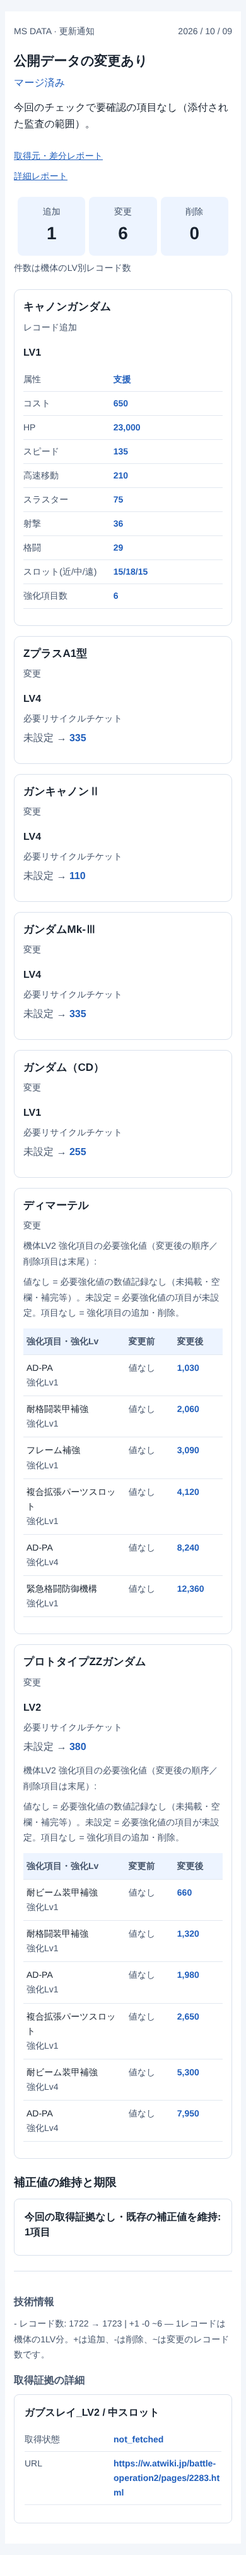
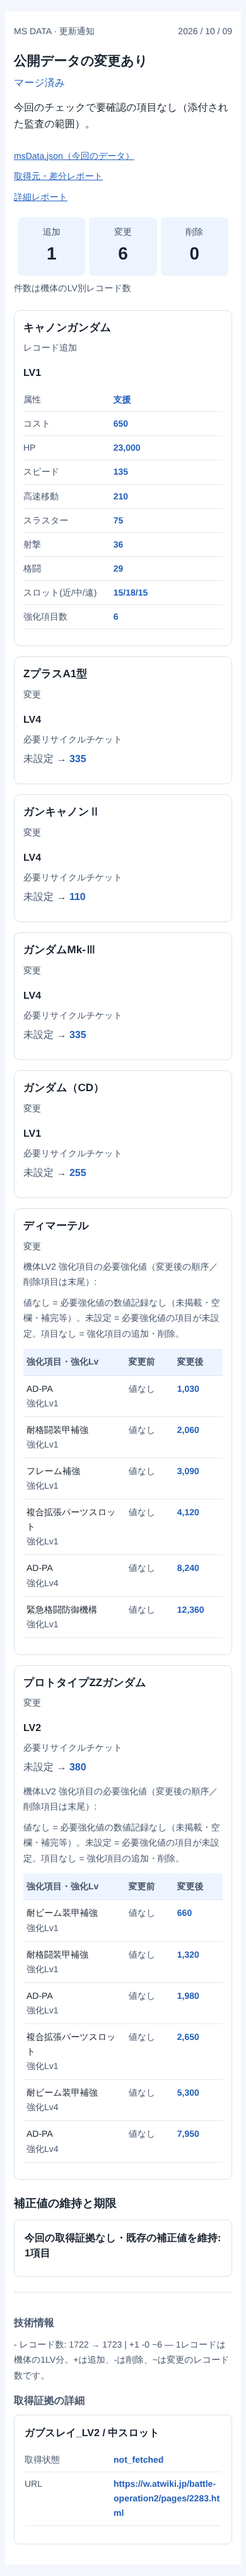
feat: 更新反映メールの msData.json 添付をやめ Release アセットへのリンクにする（#365）
- post merge notify の Release 公開で msData.json もアセットに載せ、そのダウンロード URL を出力する
- build_update_mail_body に --msdata-url を追加し、本文冒頭に「msData.json（今回のデータ）」リンクを出す
- send_gmail の --attach をやめる。Release に msData.json がなければステップを失敗させる
- gh スタブテスト・契約テスト・表示例を更新

Claude-Session: https://claude.ai/code/session_01Gn3P4Jr7SEk7vpEKWeojKK

diff --git a/docs/notification_examples/actual-20261009.html b/docs/notification_examples/actual-20261009.html
@@ -25,7 +25,7 @@
 <h1 style="font-size:24px;line-height:1.4;font-weight:600;margin:20px 0 8px">公開データの変更あり</h1>
 <p class="result" style="color:#215fbc;font-size:16px;margin:0 0 12px">マージ済み</p>
 <p class="action" style="font-size:16px;margin:0 0 24px">今回のチェックで要確認の項目なし（添付された監査の範囲）。</p>
-<p class="note" style="font-size:14px;line-height:1.75;color:#46556b;margin:8px 0;overflow-wrap:anywhere;word-wrap:break-word"><a href="https://github.com/murakotaro4/MS_data/releases/tag/raw-snapshot-20261009-run-37806098586" style="color:#215fbc;text-decoration:underline;overflow-wrap:anywhere;word-wrap:break-word">取得元・差分レポート</a></p><p class="note" style="font-size:14px;line-height:1.75;color:#46556b;margin:8px 0;overflow-wrap:anywhere;word-wrap:break-word"><a href="https://github.com/murakotaro4/MS_data/actions/runs/37806098586" style="color:#215fbc;text-decoration:underline;overflow-wrap:anywhere;word-wrap:break-word">詳細レポート</a></p>
+<p class="note" style="font-size:14px;line-height:1.75;color:#46556b;margin:8px 0;overflow-wrap:anywhere;word-wrap:break-word"><a href="https://github.com/murakotaro4/MS_data/releases/download/raw-snapshot-20261009-run-37806098586/msData.json" style="color:#215fbc;text-decoration:underline;overflow-wrap:anywhere;word-wrap:break-word">msData.json（今回のデータ）</a></p><p class="note" style="font-size:14px;line-height:1.75;color:#46556b;margin:8px 0;overflow-wrap:anywhere;word-wrap:break-word"><a href="https://github.com/murakotaro4/MS_data/releases/tag/raw-snapshot-20261009-run-37806098586" style="color:#215fbc;text-decoration:underline;overflow-wrap:anywhere;word-wrap:break-word">取得元・差分レポート</a></p><p class="note" style="font-size:14px;line-height:1.75;color:#46556b;margin:8px 0;overflow-wrap:anywhere;word-wrap:break-word"><a href="https://github.com/murakotaro4/MS_data/actions/runs/37806098586" style="color:#215fbc;text-decoration:underline;overflow-wrap:anywhere;word-wrap:break-word">詳細レポート</a></p>
 <table class="stats" role="presentation" style="width:100%;table-layout:fixed;border-spacing:6px 0;margin:20px 0 0"><tr><td style="width:33.33%;padding:12px 4px;background:#edf4ff;text-align:center;border-radius:8px"><div class="stat-label" style="color:#46556b;font-size:14px">追加</div><div class="stat-value" style="font-size:28px;font-weight:600">1</div></td><td style="width:33.33%;padding:12px 4px;background:#edf4ff;text-align:center;border-radius:8px"><div class="stat-label" style="color:#46556b;font-size:14px">変更</div><div class="stat-value" style="font-size:28px;font-weight:600">6</div></td><td style="width:33.33%;padding:12px 4px;background:#edf4ff;text-align:center;border-radius:8px"><div class="stat-label" style="color:#46556b;font-size:14px">削除</div><div class="stat-value" style="font-size:28px;font-weight:600">0</div></td></tr></table><p class="counts-note" style="margin:8px 0 22px;color:#46556b;font-size:14px">件数は機体のLV別レコード数</p>
 <div class="machine" style="border:1px solid #d9e1ec;border-radius:10px;padding:18px;margin:0 0 16px;background:#fff;overflow-wrap:anywhere;word-wrap:break-word"><h2 class="machine-name" style="font-size:18px;line-height:1.5;margin:0 0 12px;font-weight:600;font-size:19px;line-height:1.5;margin:0 0 8px;font-weight:600">キャノンガンダム</h2><div class="kind" style="color:#46556b;font-size:14px;margin:8px 0 6px">レコード追加</div><h3 class="level" style="font-size:16px;line-height:1.5;margin:0 0 8px;font-weight:600;font-size:16px;margin:16px 0 8px;color:#18222f;font-weight:600">LV1</h3><table aria-label="項目と値" class="values" style="width:100%;border-collapse:collapse;table-layout:fixed;margin:12px 0;font-size:14px"><tr><th scope="row" style="padding:7px 0;border-bottom:1px solid #e2e8f0;vertical-align:top;overflow-wrap:anywhere;word-wrap:break-word;width:42%;padding-right:10px;color:#46556b;text-align:left;font-weight:400">属性</th><td class="after" style="color:#215fbc;font-weight:600;padding:7px 0;border-bottom:1px solid #e2e8f0;vertical-align:top;overflow-wrap:anywhere;word-wrap:break-word">支援</td></tr><tr><th scope="row" style="padding:7px 0;border-bottom:1px solid #e2e8f0;vertical-align:top;overflow-wrap:anywhere;word-wrap:break-word;width:42%;padding-right:10px;color:#46556b;text-align:left;font-weight:400">コスト</th><td class="after" style="color:#215fbc;font-weight:600;padding:7px 0;border-bottom:1px solid #e2e8f0;vertical-align:top;overflow-wrap:anywhere;word-wrap:break-word">650</td></tr><tr><th scope="row" style="padding:7px 0;border-bottom:1px solid #e2e8f0;vertical-align:top;overflow-wrap:anywhere;word-wrap:break-word;width:42%;padding-right:10px;color:#46556b;text-align:left;font-weight:400">HP</th><td class="after" style="color:#215fbc;font-weight:600;padding:7px 0;border-bottom:1px solid #e2e8f0;vertical-align:top;overflow-wrap:anywhere;word-wrap:break-word">23,000</td></tr><tr><th scope="row" style="padding:7px 0;border-bottom:1px solid #e2e8f0;vertical-align:top;overflow-wrap:anywhere;word-wrap:break-word;width:42%;padding-right:10px;color:#46556b;text-align:left;font-weight:400">スピード</th><td class="after" style="color:#215fbc;font-weight:600;padding:7px 0;border-bottom:1px solid #e2e8f0;vertical-align:top;overflow-wrap:anywhere;word-wrap:break-word">135</td></tr><tr><th scope="row" style="padding:7px 0;border-bottom:1px solid #e2e8f0;vertical-align:top;overflow-wrap:anywhere;word-wrap:break-word;width:42%;padding-right:10px;color:#46556b;text-align:left;font-weight:400">高速移動</th><td class="after" style="color:#215fbc;font-weight:600;padding:7px 0;border-bottom:1px solid #e2e8f0;vertical-align:top;overflow-wrap:anywhere;word-wrap:break-word">210</td></tr><tr><th scope="row" style="padding:7px 0;border-bottom:1px solid #e2e8f0;vertical-align:top;overflow-wrap:anywhere;word-wrap:break-word;width:42%;padding-right:10px;color:#46556b;text-align:left;font-weight:400">スラスター</th><td class="after" style="color:#215fbc;font-weight:600;padding:7px 0;border-bottom:1px solid #e2e8f0;vertical-align:top;overflow-wrap:anywhere;word-wrap:break-word">75</td></tr><tr><th scope="row" style="padding:7px 0;border-bottom:1px solid #e2e8f0;vertical-align:top;overflow-wrap:anywhere;word-wrap:break-word;width:42%;padding-right:10px;color:#46556b;text-align:left;font-weight:400">射撃</th><td class="after" style="color:#215fbc;font-weight:600;padding:7px 0;border-bottom:1px solid #e2e8f0;vertical-align:top;overflow-wrap:anywhere;word-wrap:break-word">36</td></tr><tr><th scope="row" style="padding:7px 0;border-bottom:1px solid #e2e8f0;vertical-align:top;overflow-wrap:anywhere;word-wrap:break-word;width:42%;padding-right:10px;color:#46556b;text-align:left;font-weight:400">格闘</th><td class="after" style="color:#215fbc;font-weight:600;padding:7px 0;border-bottom:1px solid #e2e8f0;vertical-align:top;overflow-wrap:anywhere;word-wrap:break-word">29</td></tr><tr><th scope="row" style="padding:7px 0;border-bottom:1px solid #e2e8f0;vertical-align:top;overflow-wrap:anywhere;word-wrap:break-word;width:42%;padding-right:10px;color:#46556b;text-align:left;font-weight:400">スロット(近/中/遠)</th><td class="after" style="color:#215fbc;font-weight:600;padding:7px 0;border-bottom:1px solid #e2e8f0;vertical-align:top;overflow-wrap:anywhere;word-wrap:break-word">15/18/15</td></tr><tr><th scope="row" style="padding:7px 0;border-bottom:1px solid #e2e8f0;vertical-align:top;overflow-wrap:anywhere;word-wrap:break-word;width:42%;padding-right:10px;color:#46556b;text-align:left;font-weight:400">強化項目数</th><td class="after" style="color:#215fbc;font-weight:600;padding:7px 0;border-bottom:1px solid #e2e8f0;vertical-align:top;overflow-wrap:anywhere;word-wrap:break-word">6</td></tr></table></div><div class="machine" style="border:1px solid #d9e1ec;border-radius:10px;padding:18px;margin:0 0 16px;background:#fff;overflow-wrap:anywhere;word-wrap:break-word"><h2 class="machine-name" style="font-size:18px;line-height:1.5;margin:0 0 12px;font-weight:600;font-size:19px;line-height:1.5;margin:0 0 8px;font-weight:600">ΖプラスA1型</h2><div class="kind" style="color:#46556b;font-size:14px;margin:8px 0 6px">変更</div><h3 class="level" style="font-size:16px;line-height:1.5;margin:0 0 8px;font-weight:600;font-size:16px;margin:16px 0 8px;color:#18222f;font-weight:600">LV4</h3><div class="change" style="margin:0 0 12px"><div class="field" style="color:#46556b;font-size:14px;margin:8px 0 6px">必要リサイクルチケット</div><span class="before" style="color:#46556b">未設定</span> <span class="arrow" style="color:#46556b">→</span> <span class="after" style="color:#215fbc;font-weight:600">335</span> </div></div><div class="machine" style="border:1px solid #d9e1ec;border-radius:10px;padding:18px;margin:0 0 16px;background:#fff;overflow-wrap:anywhere;word-wrap:break-word"><h2 class="machine-name" style="font-size:18px;line-height:1.5;margin:0 0 12px;font-weight:600;font-size:19px;line-height:1.5;margin:0 0 8px;font-weight:600">ガンキャノンⅡ</h2><div class="kind" style="color:#46556b;font-size:14px;margin:8px 0 6px">変更</div><h3 class="level" style="font-size:16px;line-height:1.5;margin:0 0 8px;font-weight:600;font-size:16px;margin:16px 0 8px;color:#18222f;font-weight:600">LV4</h3><div class="change" style="margin:0 0 12px"><div class="field" style="color:#46556b;font-size:14px;margin:8px 0 6px">必要リサイクルチケット</div><span class="before" style="color:#46556b">未設定</span> <span class="arrow" style="color:#46556b">→</span> <span class="after" style="color:#215fbc;font-weight:600">110</span> </div></div><div class="machine" style="border:1px solid #d9e1ec;border-radius:10px;padding:18px;margin:0 0 16px;background:#fff;overflow-wrap:anywhere;word-wrap:break-word"><h2 class="machine-name" style="font-size:18px;line-height:1.5;margin:0 0 12px;font-weight:600;font-size:19px;line-height:1.5;margin:0 0 8px;font-weight:600">ガンダムMk-Ⅲ</h2><div class="kind" style="color:#46556b;font-size:14px;margin:8px 0 6px">変更</div><h3 class="level" style="font-size:16px;line-height:1.5;margin:0 0 8px;font-weight:600;font-size:16px;margin:16px 0 8px;color:#18222f;font-weight:600">LV4</h3><div class="change" style="margin:0 0 12px"><div class="field" style="color:#46556b;font-size:14px;margin:8px 0 6px">必要リサイクルチケット</div><span class="before" style="color:#46556b">未設定</span> <span class="arrow" style="color:#46556b">→</span> <span class="after" style="color:#215fbc;font-weight:600">335</span> </div></div><div class="machine" style="border:1px solid #d9e1ec;border-radius:10px;padding:18px;margin:0 0 16px;background:#fff;overflow-wrap:anywhere;word-wrap:break-word"><h2 class="machine-name" style="font-size:18px;line-height:1.5;margin:0 0 12px;font-weight:600;font-size:19px;line-height:1.5;margin:0 0 8px;font-weight:600">ガンダム（CD）</h2><div class="kind" style="color:#46556b;font-size:14px;margin:8px 0 6px">変更</div><h3 class="level" style="font-size:16px;line-height:1.5;margin:0 0 8px;font-weight:600;font-size:16px;margin:16px 0 8px;color:#18222f;font-weight:600">LV1</h3><div class="change" style="margin:0 0 12px"><div class="field" style="color:#46556b;font-size:14px;margin:8px 0 6px">必要リサイクルチケット</div><span class="before" style="color:#46556b">未設定</span> <span class="arrow" style="color:#46556b">→</span> <span class="after" style="color:#215fbc;font-weight:600">255</span> </div></div><div class="machine" style="border:1px solid #d9e1ec;border-radius:10px;padding:18px;margin:0 0 16px;background:#fff;overflow-wrap:anywhere;word-wrap:break-word"><h2 class="machine-name" style="font-size:18px;line-height:1.5;margin:0 0 12px;font-weight:600;font-size:19px;line-height:1.5;margin:0 0 8px;font-weight:600">ディマーテル</h2><div class="kind" style="color:#46556b;font-size:14px;margin:8px 0 6px">変更</div><p class="note" style="font-size:14px;line-height:1.75;color:#46556b;margin:8px 0;overflow-wrap:anywhere;word-wrap:break-word">機体LV2 強化項目の必要強化値（変更後の順序／削除項目は末尾）:</p><p class="note" style="font-size:14px;line-height:1.75;color:#46556b;margin:8px 0;overflow-wrap:anywhere;word-wrap:break-word">値なし = 必要強化値の数値記録なし（未掲載・空欄・補完等）。未設定 = 必要強化値の項目が未設定。項目なし = 強化項目の追加・削除。</p><table aria-label="強化項目の必要強化値の変更前後" class="enhancements" style="width:100%;border-collapse:collapse;table-layout:fixed;margin:12px 0;font-size:14px"><thead><tr><th scope="col" style="padding:9px 5px;border-bottom:1px solid #e2e8f0;vertical-align:top;overflow-wrap:anywhere;word-wrap:break-word;text-align:left;width:48%;font-weight:400;background:#edf4ff;color:#46556b;font-weight:600">強化項目・強化Lv</th><th scope="col" style="padding:9px 5px;border-bottom:1px solid #e2e8f0;vertical-align:top;overflow-wrap:anywhere;word-wrap:break-word;text-align:left;background:#edf4ff;color:#46556b;font-weight:600">変更前</th><th scope="col" style="padding:9px 5px;border-bottom:1px solid #e2e8f0;vertical-align:top;overflow-wrap:anywhere;word-wrap:break-word;text-align:left;background:#edf4ff;color:#46556b;font-weight:600">変更後</th></tr></thead><tbody><tr><th scope="row" style="padding:9px 5px;border-bottom:1px solid #e2e8f0;vertical-align:top;overflow-wrap:anywhere;word-wrap:break-word;text-align:left;width:48%;font-weight:400">AD-PA<br/><span class="skill-level" style="color:#46556b;font-size:14px">強化Lv1</span></th><td class="before" style="color:#46556b;padding:9px 5px;border-bottom:1px solid #e2e8f0;vertical-align:top;overflow-wrap:anywhere;word-wrap:break-word;text-align:left">値なし</td><td class="after" style="color:#215fbc;font-weight:600;padding:9px 5px;border-bottom:1px solid #e2e8f0;vertical-align:top;overflow-wrap:anywhere;word-wrap:break-word;text-align:left">1,030</td></tr><tr><th scope="row" style="padding:9px 5px;border-bottom:1px solid #e2e8f0;vertical-align:top;overflow-wrap:anywhere;word-wrap:break-word;text-align:left;width:48%;font-weight:400">耐格闘装甲補強<br/><span class="skill-level" style="color:#46556b;font-size:14px">強化Lv1</span></th><td class="before" style="color:#46556b;padding:9px 5px;border-bottom:1px solid #e2e8f0;vertical-align:top;overflow-wrap:anywhere;word-wrap:break-word;text-align:left">値なし</td><td class="after" style="color:#215fbc;font-weight:600;padding:9px 5px;border-bottom:1px solid #e2e8f0;vertical-align:top;overflow-wrap:anywhere;word-wrap:break-word;text-align:left">2,060</td></tr><tr><th scope="row" style="padding:9px 5px;border-bottom:1px solid #e2e8f0;vertical-align:top;overflow-wrap:anywhere;word-wrap:break-word;text-align:left;width:48%;font-weight:400">フレーム補強<br/><span class="skill-level" style="color:#46556b;font-size:14px">強化Lv1</span></th><td class="before" style="color:#46556b;padding:9px 5px;border-bottom:1px solid #e2e8f0;vertical-align:top;overflow-wrap:anywhere;word-wrap:break-word;text-align:left">値なし</td><td class="after" style="color:#215fbc;font-weight:600;padding:9px 5px;border-bottom:1px solid #e2e8f0;vertical-align:top;overflow-wrap:anywhere;word-wrap:break-word;text-align:left">3,090</td></tr><tr><th scope="row" style="padding:9px 5px;border-bottom:1px solid #e2e8f0;vertical-align:top;overflow-wrap:anywhere;word-wrap:break-word;text-align:left;width:48%;font-weight:400">複合拡張パーツスロット<br/><span class="skill-level" style="color:#46556b;font-size:14px">強化Lv1</span></th><td class="before" style="color:#46556b;padding:9px 5px;border-bottom:1px solid #e2e8f0;vertical-align:top;overflow-wrap:anywhere;word-wrap:break-word;text-align:left">値なし</td><td class="after" style="color:#215fbc;font-weight:600;padding:9px 5px;border-bottom:1px solid #e2e8f0;vertical-align:top;overflow-wrap:anywhere;word-wrap:break-word;text-align:left">4,120</td></tr><tr><th scope="row" style="padding:9px 5px;border-bottom:1px solid #e2e8f0;vertical-align:top;overflow-wrap:anywhere;word-wrap:break-word;text-align:left;width:48%;font-weight:400">AD-PA<br/><span class="skill-level" style="color:#46556b;font-size:14px">強化Lv4</span></th><td class="before" style="color:#46556b;padding:9px 5px;border-bottom:1px solid #e2e8f0;vertical-align:top;overflow-wrap:anywhere;word-wrap:break-word;text-align:left">値なし</td><td class="after" style="color:#215fbc;font-weight:600;padding:9px 5px;border-bottom:1px solid #e2e8f0;vertical-align:top;overflow-wrap:anywhere;word-wrap:break-word;text-align:left">8,240</td></tr><tr><th scope="row" style="padding:9px 5px;border-bottom:1px solid #e2e8f0;vertical-align:top;overflow-wrap:anywhere;word-wrap:break-word;text-align:left;width:48%;font-weight:400">緊急格闘防御機構<br/><span class="skill-level" style="color:#46556b;font-size:14px">強化Lv1</span></th><td class="before" style="color:#46556b;padding:9px 5px;border-bottom:1px solid #e2e8f0;vertical-align:top;overflow-wrap:anywhere;word-wrap:break-word;text-align:left">値なし</td><td class="after" style="color:#215fbc;font-weight:600;padding:9px 5px;border-bottom:1px solid #e2e8f0;vertical-align:top;overflow-wrap:anywhere;word-wrap:break-word;text-align:left">12,360</td></tr></tbody></table></div><div class="machine" style="border:1px solid #d9e1ec;border-radius:10px;padding:18px;margin:0 0 16px;background:#fff;overflow-wrap:anywhere;word-wrap:break-word"><h2 class="machine-name" style="font-size:18px;line-height:1.5;margin:0 0 12px;font-weight:600;font-size:19px;line-height:1.5;margin:0 0 8px;font-weight:600">プロトタイプΖΖガンダム</h2><div class="kind" style="color:#46556b;font-size:14px;margin:8px 0 6px">変更</div><h3 class="level" style="font-size:16px;line-height:1.5;margin:0 0 8px;font-weight:600;font-size:16px;margin:16px 0 8px;color:#18222f;font-weight:600">LV2</h3><div class="change" style="margin:0 0 12px"><div class="field" style="color:#46556b;font-size:14px;margin:8px 0 6px">必要リサイクルチケット</div><span class="before" style="color:#46556b">未設定</span> <span class="arrow" style="color:#46556b">→</span> <span class="after" style="color:#215fbc;font-weight:600">380</span> </div><p class="note" style="font-size:14px;line-height:1.75;color:#46556b;margin:8px 0;overflow-wrap:anywhere;word-wrap:break-word">機体LV2 強化項目の必要強化値（変更後の順序／削除項目は末尾）:</p><p class="note" style="font-size:14px;line-height:1.75;color:#46556b;margin:8px 0;overflow-wrap:anywhere;word-wrap:break-word">値なし = 必要強化値の数値記録なし（未掲載・空欄・補完等）。未設定 = 必要強化値の項目が未設定。項目なし = 強化項目の追加・削除。</p><table aria-label="強化項目の必要強化値の変更前後" class="enhancements" style="width:100%;border-collapse:collapse;table-layout:fixed;margin:12px 0;font-size:14px"><thead><tr><th scope="col" style="padding:9px 5px;border-bottom:1px solid #e2e8f0;vertical-align:top;overflow-wrap:anywhere;word-wrap:break-word;text-align:left;width:48%;font-weight:400;background:#edf4ff;color:#46556b;font-weight:600">強化項目・強化Lv</th><th scope="col" style="padding:9px 5px;border-bottom:1px solid #e2e8f0;vertical-align:top;overflow-wrap:anywhere;word-wrap:break-word;text-align:left;background:#edf4ff;color:#46556b;font-weight:600">変更前</th><th scope="col" style="padding:9px 5px;border-bottom:1px solid #e2e8f0;vertical-align:top;overflow-wrap:anywhere;word-wrap:break-word;text-align:left;background:#edf4ff;color:#46556b;font-weight:600">変更後</th></tr></thead><tbody><tr><th scope="row" style="padding:9px 5px;border-bottom:1px solid #e2e8f0;vertical-align:top;overflow-wrap:anywhere;word-wrap:break-word;text-align:left;width:48%;font-weight:400">耐ビーム装甲補強<br/><span class="skill-level" style="color:#46556b;font-size:14px">強化Lv1</span></th><td class="before" style="color:#46556b;padding:9px 5px;border-bottom:1px solid #e2e8f0;vertical-align:top;overflow-wrap:anywhere;word-wrap:break-word;text-align:left">値なし</td><td class="after" style="color:#215fbc;font-weight:600;padding:9px 5px;border-bottom:1px solid #e2e8f0;vertical-align:top;overflow-wrap:anywhere;word-wrap:break-word;text-align:left">660</td></tr><tr><th scope="row" style="padding:9px 5px;border-bottom:1px solid #e2e8f0;vertical-align:top;overflow-wrap:anywhere;word-wrap:break-word;text-align:left;width:48%;font-weight:400">耐格闘装甲補強<br/><span class="skill-level" style="color:#46556b;font-size:14px">強化Lv1</span></th><td class="before" style="color:#46556b;padding:9px 5px;border-bottom:1px solid #e2e8f0;vertical-align:top;overflow-wrap:anywhere;word-wrap:break-word;text-align:left">値なし</td><td class="after" style="color:#215fbc;font-weight:600;padding:9px 5px;border-bottom:1px solid #e2e8f0;vertical-align:top;overflow-wrap:anywhere;word-wrap:break-word;text-align:left">1,320</td></tr><tr><th scope="row" style="padding:9px 5px;border-bottom:1px solid #e2e8f0;vertical-align:top;overflow-wrap:anywhere;word-wrap:break-word;text-align:left;width:48%;font-weight:400">AD-PA<br/><span class="skill-level" style="color:#46556b;font-size:14px">強化Lv1</span></th><td class="before" style="color:#46556b;padding:9px 5px;border-bottom:1px solid #e2e8f0;vertical-align:top;overflow-wrap:anywhere;word-wrap:break-word;text-align:left">値なし</td><td class="after" style="color:#215fbc;font-weight:600;padding:9px 5px;border-bottom:1px solid #e2e8f0;vertical-align:top;overflow-wrap:anywhere;word-wrap:break-word;text-align:left">1,980</td></tr><tr><th scope="row" style="padding:9px 5px;border-bottom:1px solid #e2e8f0;vertical-align:top;overflow-wrap:anywhere;word-wrap:break-word;text-align:left;width:48%;font-weight:400">複合拡張パーツスロット<br/><span class="skill-level" style="color:#46556b;font-size:14px">強化Lv1</span></th><td class="before" style="color:#46556b;padding:9px 5px;border-bottom:1px solid #e2e8f0;vertical-align:top;overflow-wrap:anywhere;word-wrap:break-word;text-align:left">値なし</td><td class="after" style="color:#215fbc;font-weight:600;padding:9px 5px;border-bottom:1px solid #e2e8f0;vertical-align:top;overflow-wrap:anywhere;word-wrap:break-word;text-align:left">2,650</td></tr><tr><th scope="row" style="padding:9px 5px;border-bottom:1px solid #e2e8f0;vertical-align:top;overflow-wrap:anywhere;word-wrap:break-word;text-align:left;width:48%;font-weight:400">耐ビーム装甲補強<br/><span class="skill-level" style="color:#46556b;font-size:14px">強化Lv4</span></th><td class="before" style="color:#46556b;padding:9px 5px;border-bottom:1px solid #e2e8f0;vertical-align:top;overflow-wrap:anywhere;word-wrap:break-word;text-align:left">値なし</td><td class="after" style="color:#215fbc;font-weight:600;padding:9px 5px;border-bottom:1px solid #e2e8f0;vertical-align:top;overflow-wrap:anywhere;word-wrap:break-word;text-align:left">5,300</td></tr><tr><th scope="row" style="padding:9px 5px;border-bottom:1px solid #e2e8f0;vertical-align:top;overflow-wrap:anywhere;word-wrap:break-word;text-align:left;width:48%;font-weight:400">AD-PA<br/><span class="skill-level" style="color:#46556b;font-size:14px">強化Lv4</span></th><td class="before" style="color:#46556b;padding:9px 5px;border-bottom:1px solid #e2e8f0;vertical-align:top;overflow-wrap:anywhere;word-wrap:break-word;text-align:left">値なし</td><td class="after" style="color:#215fbc;font-weight:600;padding:9px 5px;border-bottom:1px solid #e2e8f0;vertical-align:top;overflow-wrap:anywhere;word-wrap:break-word;text-align:left">7,950</td></tr></tbody></table></div>
 <div class="maintenance" style="margin:24px 0 0"><h2 style="font-size:18px;line-height:1.5;margin:0 0 12px;font-weight:600">補正値の維持と期限</h2><div class="audit-card" style="padding:16px;border:1px solid #d9e1ec;border-radius:8px;margin:0 0 12px;background:#fff;overflow-wrap:anywhere;word-wrap:break-word"><h3 style="font-size:16px;line-height:1.5;margin:0 0 8px;font-weight:600">今回の取得証拠なし・既存の補正値を維持: 1項目</h3></div></div>

diff --git a/tests/test_release_upload_workflow.py b/tests/test_release_upload_workflow.py
@@ -27,13 +27,20 @@ OPTIONAL_OUTPUTS = (
 
 
 @pytest.mark.parametrize(
-    ("optional_indexes", "existing_release", "upload_failure", "snapshot_exists"),
+    (
+        "optional_indexes",
+        "existing_release",
+        "upload_failure",
+        "snapshot_exists",
+        "msdata_listed",
+    ),
     [
-        ((0, 1, 2, 3, 4), False, False, True),
-        ((0, 2), False, False, True),
-        ((), True, False, True),
-        ((0, 1, 2, 3, 4), False, True, True),
-        ((), True, False, False),
+        ((0, 1, 2, 3, 4), False, False, True, True),
+        ((0, 2), False, False, True, True),
+        ((), True, False, True, True),
+        ((0, 1, 2, 3, 4), False, True, True, True),
+        ((), True, False, False, True),
+        ((), False, False, True, False),
     ],
     ids=[
         "all-assets",
@@ -41,6 +48,7 @@ OPTIONAL_OUTPUTS = (
         "existing-release",
         "upload-failure",
         "missing-snapshot",
+        "missing-msdata-asset",
     ],
 )
 def test_release_upload(
@@ -49,7 +57,10 @@ def test_release_upload(
     existing_release: bool,
     upload_failure: bool,
     snapshot_exists: bool,
+    msdata_listed: bool,
 ) -> None:
+    # msData.json はメールに添付せず、Release アセットとして載せてリンクする。
+    (tmp_path / "msData.json").write_text("[]", encoding="utf-8")
     snapshot = tmp_path / "snapshot with spaces.tar.xz"
     if snapshot_exists:
         snapshot.touch()
@@ -79,7 +90,10 @@ def test_release_upload(
             with open(os.environ['CALLS'], 'a') as stream:
                 stream.write(json.dumps(args) + '\\n')
             if args[:2] == ['release', 'view']:
-                if '--json' in args:
+                if '--json' in args and 'assets' in args:
+                    if os.environ['MSDATA_LISTED'] == '1':
+                        print('https://example.test/download/msData.json')
+                elif '--json' in args:
                     print('https://example.test/release')
                 else:
                     sys.exit(0 if os.environ['EXISTING'] == '1' else 1)
@@ -108,6 +122,7 @@ def test_release_upload(
         "CALLS": str(calls_path),
         "EXISTING": str(int(existing_release)),
         "FAIL_UPLOAD": str(int(upload_failure)),
+        "MSDATA_LISTED": str(int(msdata_listed)),
         "RELEASE_TAG": "test-release",
         "SOURCE_RUN_ID": "123",
         "ARTIFACT_NAME": "raw-snapshot",
@@ -127,7 +142,7 @@ def test_release_upload(
     calls = [json.loads(line) for line in calls_path.read_text().splitlines()]
     uploads = [args for args in calls if args[:2] == ["release", "upload"]]
     assert uploads == [
-        ["release", "upload", "test-release", str(snapshot)]
+        ["release", "upload", "test-release", str(snapshot), "msData.json"]
         + [str(optional[i]) for i in optional_indexes]
         + ["--repo", "example/repo", "--clobber"]
     ]
@@ -138,10 +153,16 @@ def test_release_upload(
         assert result.returncode == 7
         assert output == ""
         assert not any("--json" in args for args in calls)
+    elif not msdata_listed:
+        # リンク先がなければ、添付もリンクもないメールを送らず失敗させる。
+        assert result.returncode == 1
+        assert "Release に msData.json がありません" in result.stderr
+        assert "msdata_url=" not in output
     else:
         assert result.returncode == 0, result.stderr
         assert output == (
             "release_url=https://example.test/release\n"
+            "msdata_url=https://example.test/download/msData.json\n"
             f"created={str(not existing_release).lower()}\n"
         )
 

diff --git a/tests/test_build_update_mail_body.py b/tests/test_build_update_mail_body.py
@@ -300,3 +300,36 @@ def test_explicit_detection_args_take_precedence_over_quality_report(tmp_path):
     assert "読み取り率 100%" in text
     assert "高速選定 無効" in text
     assert "読み取り率低下" not in text
+
+
+def test_merged_mail_links_msdata_instead_of_attaching(tmp_path):
+    url = (
+        "https://github.com/murakotaro4/MS_data/releases/download/"
+        "raw-snapshot-20261024-run-1/msData.json"
+    )
+    out, html = tmp_path / "mail.txt", tmp_path / "mail.html"
+    build_update_mail_body.main(
+        [
+            "--report-date",
+            "20261024",
+            "--result",
+            "マージ済み",
+            "--changed",
+            "true",
+            "--release-url",
+            "https://example.test/release",
+            "--msdata-url",
+            url,
+            "--out",
+            str(out),
+            "--html-out",
+            str(html),
+        ]
+    )
+    text = out.read_text(encoding="utf-8")
+    assert f"msData.json（今回のデータ）: {url}" in text
+    assert text.index("msData.json（今回のデータ）") < text.index(
+        "取得元・差分レポート"
+    )
+    assert "msData.json download" not in text
+    assert f'href="{url}"' in html.read_text(encoding="utf-8")

diff --git a/ms_data/reporting/update_mail_model.py b/ms_data/reporting/update_mail_model.py
@@ -602,6 +602,7 @@ def _technical(facts: dict[str, str], *, has_detail_link: bool) -> list[str]:
             "結果",
             "msData.json変更",
             "raw snapshot release",
+            "msData.json download",
             "candidate_count",
             "fast_path",
             "age_coverage",
@@ -957,11 +958,15 @@ def build_mail_view(body: str) -> MailView:
             )
         )
         action = "対応が必要です。実行結果と監査レポートを確認してください。"
-    links = (
-        [("取得元・差分レポート", facts["raw snapshot release"])]
-        if "raw snapshot release" in facts
-        else []
-    )
+    # msData.json は添付せず、Release アセットへのリンクで渡す。
+    links = [
+        (label, facts[key])
+        for label, key in (
+            ("msData.json（今回のデータ）", "msData.json download"),
+            ("取得元・差分レポート", "raw snapshot release"),
+        )
+        if key in facts
+    ]
     details = [
         ("詳細レポート", line[4:])
         for line in body.splitlines()

diff --git a/ms_data/reporting/build_update_mail_body.py b/ms_data/reporting/build_update_mail_body.py
@@ -202,6 +202,8 @@ def _optional_bullets(args: argparse.Namespace) -> list[str]:
         lines.append(f"- source_run_id: {args.source_run_id}")
     if args.release_url:
         lines.append(f"- raw snapshot release: {args.release_url}")
+    if args.msdata_url:
+        lines.append(f"- msData.json download: {args.msdata_url}")
     return lines
 
 
@@ -299,6 +301,9 @@ def main(argv: list[str] | None = None) -> int:
     parser.add_argument("--run-id", default="")
     parser.add_argument("--source-run-id", default="")
     parser.add_argument("--release-url", default="")
+    parser.add_argument(
+        "--msdata-url", default="", help="添付の代わりに載せる msData.json の URL"
+    )
     parser.add_argument("--detail-url", default="")
     parser.add_argument("--diff-path", type=_path_arg, default=None)
     parser.add_argument("--rollback-guard-path", type=_path_arg, default=None)

diff --git a/tests/test_mail_body_workflow_contract.py b/tests/test_mail_body_workflow_contract.py
@@ -24,7 +24,13 @@ def test_post_merge_notify_builds_mail_body_from_diff_and_guard_reports():
     assert '--html-out "$html_path"' in block
     send = text[text.index("- name: Send merged msData mail") :]
     assert '--html-body "${{ steps.mail_body.outputs.html_path }}"' in send
-    assert '--attach "msData.json"' in send
+    # msData.json は添付せず、Release アセットのリンクを本文に載せる（約3.6MBの添付をやめる）。
+    assert "--attach" not in send
+    assert '--msdata-url "${{ steps.release.outputs.msdata_url }}"' in block
+    release = step_block(text, start="- id: release", end="- id: mail_body")
+    assert 'assets=("$SNAPSHOT_ASSET_PATH" "msData.json")' in release
+    assert 'select(.name == "msData.json")' in release
+    assert "msdata_url=${msdata_url}" in release
 
 
 def test_data_update_no_change_mail_keeps_detection_and_guard_context_only():

diff --git a/AGENTS.md b/AGENTS.md
@@ -64,8 +64,8 @@
 - 翌朝レスキュー: `resume auto review` が毎朝 09:00 JST（cron `0 0 * * *`）と `workflow_dispatch` で起動し、停止 PR を自動回収する（手動 `@codex review` 後のマージ回収を含む）。回収対象の停止理由は `codex_no_response` / `codex_disconnected` / `ci_approval_timeout`。`ci_approval_timeout`（CI 承認後の完了待ちだけで停止）は merge ステップが停止マーカーを投稿し、resume が最新 HEAD CI の成功を共通 merge 経路で再確認してからマージする。`auto review merge` と同一 concurrency group（`msdata-auto-review-merge`）を共有。
 - 持ち越し指摘: GitHub は行が変わらない未解決レビューコメントの `commit_id` を新しい HEAD へ付け替える（`original_commit_id` は投稿時のまま）。旧 HEAD から持ち越された未解決指摘だけでは即停止せず、現 HEAD の Codex 結果を待つ。現 HEAD で終端シグナル（no-issue 受領コメント等）が出れば持ち越し指摘は無視し、出ないまま打ち切られた場合は従来どおり findings で停止する（`ms_data/gh/auto_review_gate.py`、PR #339 の 2026-10-20 停止が実例）。
 - Codexレビュー待ち: 既定 3 回まで試行。調整は repository variables の `CODEX_REVIEW_MAX_ATTEMPTS` / `CODEX_REVIEW_ATTEMPT_TIMEOUT_SECONDS` / `CODEX_REVIEW_POLL_SECONDS` / `CODEX_REVIEW_SETTLE_SECONDS`。
-- 通知: マージ後に `post merge notify` が Release アセット作成とメール送信を行います。本文は `reports/YYYY/MM/diff_msdata_YYYYMMDD.md` から生成、添付は `msData.json`。差分ゼロの定期実行時は `data update` から「差分なし」報告メールを送信。idempotency キーは `source_run_id + head_ref`。
-- 通知メールの件名: 全通知を `【状態】msData 種類 日付やPR番号（要点）` に統一する（状態は `要対応` / `変更あり` / `変更なし` / `失敗`、カッコは全角）。日次・部分保留・更新反映は `build_update_mail_body --subject-out` が本文と同じ対応要否判定から件名を作り、`send_gmail --subject-file` で送る。共通形式は `ms_data/notify/subjects.py`（Issue #350）。自動マージ停止・パイプライン失敗の通知は `ms_data/notify/notice_html.py` で日次と同じ見た目の HTML カードとテキスト版を同じ表示モデルから作り、Codex 指摘は優先度・要点・ファイル:行・指摘コメントへのリンクのみを出す（本文の GitHub 記法は出さない。`notify failure` は依存未導入の python3 で動くため、`notice_html.py` は標準ライブラリだけで HTML を組み立てる。Issue #351）。日次メールの技術情報は平常時「取得の概要」1行にまとめ、一覧の更新経過時間読み取り率が `detect-changed` の実際のしきい値（`MIN_AGE_COVERAGE`、既定 0.95）未満の日だけ上部の要確認カードと【要対応】件名で知らせる。しきい値と読み取り率は検出サマリの出力として変更なし・部分保留メールへ、atwiki品質レポートの `index` 経由で更新反映メールへ渡す。期限到達・補正維持がない日は「補正値の維持と期限」を出さない（Issue #352）。msData.json の添付は宛先確認まで現状維持。
+- 通知: マージ後に `post merge notify` が Release アセット作成とメール送信を行います。本文は `reports/YYYY/MM/diff_msdata_YYYYMMDD.md` から生成。`msData.json` は添付せず、同じ Release のアセットにアップロードして本文のリンク（`build_update_mail_body --msdata-url`）で渡す。差分ゼロの定期実行時は `data update` から「差分なし」報告メールを送信。idempotency キーは `source_run_id + head_ref`。
+- 通知メールの件名: 全通知を `【状態】msData 種類 日付やPR番号（要点）` に統一する（状態は `要対応` / `変更あり` / `変更なし` / `失敗`、カッコは全角）。日次・部分保留・更新反映は `build_update_mail_body --subject-out` が本文と同じ対応要否判定から件名を作り、`send_gmail --subject-file` で送る。共通形式は `ms_data/notify/subjects.py`（Issue #350）。自動マージ停止・パイプライン失敗の通知は `ms_data/notify/notice_html.py` で日次と同じ見た目の HTML カードとテキスト版を同じ表示モデルから作り、Codex 指摘は優先度・要点・ファイル:行・指摘コメントへのリンクのみを出す（本文の GitHub 記法は出さない。`notify failure` は依存未導入の python3 で動くため、`notice_html.py` は標準ライブラリだけで HTML を組み立てる。Issue #351）。日次メールの技術情報は平常時「取得の概要」1行にまとめ、一覧の更新経過時間読み取り率が `detect-changed` の実際のしきい値（`MIN_AGE_COVERAGE`、既定 0.95）未満の日だけ上部の要確認カードと【要対応】件名で知らせる。しきい値と読み取り率は検出サマリの出力として変更なし・部分保留メールへ、atwiki品質レポートの `index` 経由で更新反映メールへ渡す。期限到達・補正維持がない日は「補正値の維持と期限」を出さない（Issue #352）。msData.json は 2026-10-24 に添付をやめ、Release アセットへのリンクに切り替えた（宛先確認済み）。
 - メール秘匿運用（重要）: `GMAIL_ADDRESS` / `GMAIL_APP_PASSWORD` / `GMAIL_TO` / `CODEX_TRIGGER_PAT` は必ず GitHub **Secrets** 経由で渡します（public リポジトリではログが公開されるため、`vars.` への変更や `echo` でのデバッグ出力は禁止。Secrets はログで自動マスクされます）。`GMAIL_TO` はカンマ区切りで複数宛先可。値の参照は不可のため変更時は最終文字列で上書き。自動レビュー停止メールは宛先を `GMAIL_ADDRESS`（本人のみ）に固定する。
 - 生成元追跡: 実行ごとに `reports/YYYY/MM/provenance_YYYYMMDD.json`（index/details/html のハッシュ・件数・source_run_id）を生成。
 - 巻き戻り対策: `reports/YYYY/MM/rollback_guard_YYYYMMDD.md` と `reports/YYYY/MM/official_overrides_audit_YYYYMMDD.md` を生成。protected rollback は自動更新を失敗させます。

diff --git a/tests/fixtures/mail/actual-20261009.md b/tests/fixtures/mail/actual-20261009.md
@@ -4,6 +4,7 @@ msData 定期更新を実行しました。
 - 結果: マージ済み
 - msData.json変更: true
 - source_run_id: 37806098586
+- msData.json download: https://github.com/murakotaro4/MS_data/releases/download/raw-snapshot-20261009-run-37806098586/msData.json
 - raw snapshot release: https://github.com/murakotaro4/MS_data/releases/tag/raw-snapshot-20261009-run-37806098586
 
 ## 差分サマリ
